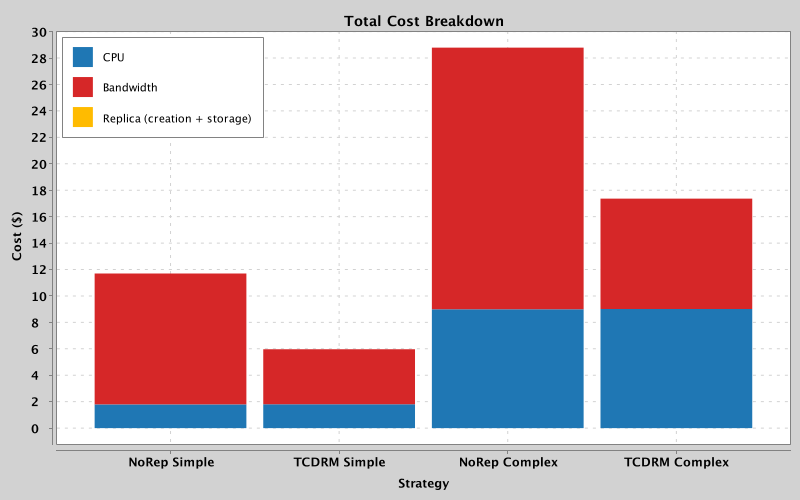
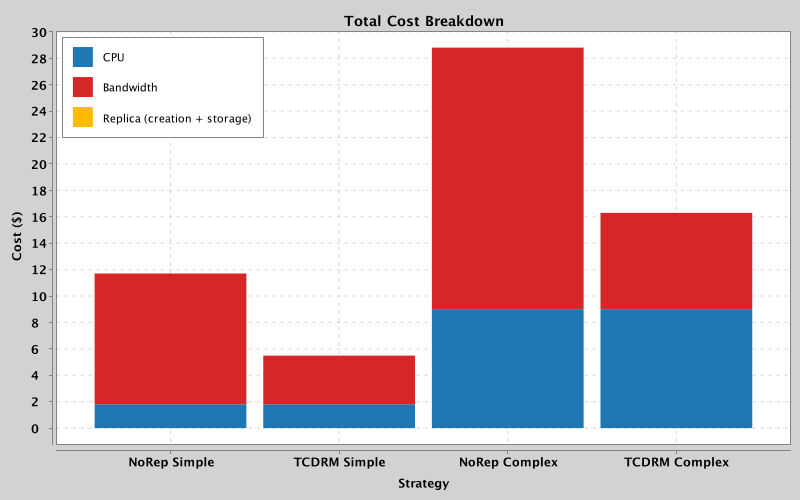
update best model

diff --git a/src/main/java/org/tcdrm/adaptive/simulation/TcdrmSimulation.java b/src/main/java/org/tcdrm/adaptive/simulation/TcdrmSimulation.java
@@ -35,12 +35,7 @@ public class TcdrmSimulation {
     private double currentBudget;
     private int queryCount;
     
-    // Compteurs pour popularité (lecture/écriture)
-    private int readCount;
-    private int writeCount;
-    
-    // EMA (Exponential Moving Average) pour popularité avec décroissance
-    // Basé sur Redis LFU et algorithmes de ranking avec time decay
+    // EMA (Exponential Moving Average) pour popularité - feature d'état pour RL
     private double emaPopularity;
 
     public TcdrmSimulation(long seed, boolean complex) {
@@ -52,8 +47,6 @@ public class TcdrmSimulation {
         this.currentReplicaCount = 0;
         this.currentBudget = TcdrmConstants.INITIAL_BUDGET;
         this.queryCount = 0;
-        this.readCount = 0;
-        this.writeCount = 0;
         this.emaPopularity = 0.0;
         
         // Créer les fragments distribués sur les providers
@@ -99,19 +92,14 @@ public class TcdrmSimulation {
      * Exécute une requête NoRepLc (pas de réplication).
      */
     public QueryResult executeNoRepQuery() {
-        QueryCloudlet query = new QueryCloudlet(queryCount, complex, fragments);
-        query.execute(infrastructure, execProvider, execRegion, rnd);
-        
         // Simuler lecture/écriture (workload OLAP: 90% lectures, 10% écritures)
         boolean isRead = rnd.nextDouble() < TcdrmConstants.READ_WRITE_RATIO;
-        if (isRead) {
-            readCount++;
-        } else {
-            writeCount++;
-        }
         
         // Mettre à jour la popularité EMA
         updateEmaPopularity(isRead);
+        
+        QueryCloudlet query = new QueryCloudlet(queryCount, complex, fragments);
+        query.execute(infrastructure, execProvider, execRegion, rnd);
         
         QueryResult result = new QueryResult(
             queryCount,
@@ -130,25 +118,21 @@ public class TcdrmSimulation {
     }
 
     /**
-     * Exécute une requête TCDRM avec stratégie de réplication à seuil fixe.
+     * Exécute une requête TCDRM avec stratégie de réplication à seuil fixe (baseline).
      */
     public QueryResult executeTcdrmQuery() {
         int maxReplicas = TcdrmConstants.maxReplicasForQueryType(complex);
         double creationCost = 0.0;
         
-        // Simuler lecture/écriture (workload OLAP: 90% lectures, 10% écritures)
+        // Simuler lecture/écriture
         boolean isRead = rnd.nextDouble() < TcdrmConstants.READ_WRITE_RATIO;
-        if (isRead) {
-            readCount++;
-        } else {
-            writeCount++;
-        }
         
         // Mettre à jour la popularité EMA
         updateEmaPopularity(isRead);
         
-        // Créer un réplica si on dépasse P_SLA et qu'on n'a pas atteint le max
-        if (queryCount >= TcdrmConstants.POPULARITY_THRESHOLD && currentReplicaCount < maxReplicas) {
+        // TCDRM static: réplication basée sur seuil fixe P_SLA
+        // On attend que la popularité dépasse le seuil
+        if (emaPopularity >= TcdrmConstants.EMA_REPLICATION_THRESHOLD && currentReplicaCount < maxReplicas) {
             creationCost = createNextReplica();
         }
         
@@ -180,6 +164,7 @@ public class TcdrmSimulation {
 
     /**
      * Exécute une requête avec une action RL spécifique.
+     * L'agent RL apprend via la reward function quand répliquer.
      * 
      * @param action 0=NOOP, 1=REPLICATE, 2=DELETE
      * @return résultat de la requête
@@ -188,13 +173,8 @@ public class TcdrmSimulation {
         int maxReplicas = TcdrmConstants.maxReplicasForQueryType(complex);
         double creationCost = 0.0;
         
-        // Simuler lecture/écriture (workload OLAP: 90% lectures, 10% écritures)
+        // Simuler lecture/écriture
         boolean isRead = rnd.nextDouble() < TcdrmConstants.READ_WRITE_RATIO;
-        if (isRead) {
-            readCount++;
-        } else {
-            writeCount++;
-        }
         
         // Mettre à jour la popularité EMA
         updateEmaPopularity(isRead);
@@ -263,23 +243,11 @@ public class TcdrmSimulation {
 
     /**
      * Met à jour la popularité EMA après chaque accès.
-     * 
-     * Formule EMA: popularity(t) = α × access_score + (1-α) × popularity(t-1)
-     * 
-     * Cette approche est basée sur:
-     * - Redis LFU: compteur probabiliste avec décroissance temporelle
-     * - Algorithmes de ranking (Reddit, HackerNews): score avec half-life
-     * 
-     * Avantages:
-     * - Décroissance naturelle: la popularité diminue si les accès cessent
-     * - Lissage: évite les pics soudains qui déclenchent une réplication prématurée
-     * - Réaliste: modélise le comportement "hot/cold" des données
-     * 
-     * @param isRead true si l'accès est une lecture, false si écriture
+     * Cette popularité est une FEATURE D'ÉTAT pour les agents RL.
+     * Les agents apprennent via la reward function quand répliquer.
      */
     private void updateEmaPopularity(boolean isRead) {
         // Score d'accès: lectures favorisées (réplication bénéfique)
-        // Écritures pénalisées (coût de synchronisation)
         double accessScore;
         if (isRead) {
             accessScore = TcdrmConstants.ACCESS_SCORE_BASE * TcdrmConstants.READ_BONUS_FACTOR;
@@ -294,7 +262,7 @@ public class TcdrmSimulation {
         double alpha = TcdrmConstants.EMA_ALPHA;
         emaPopularity = alpha * normalizedScore + (1.0 - alpha) * emaPopularity;
         
-        // Appliquer une légère décroissance supplémentaire pour éviter la saturation
+        // Décroissance pour éviter la saturation
         emaPopularity *= TcdrmConstants.DECAY_PER_QUERY;
         
         // Borner entre 0 et 1
@@ -305,22 +273,18 @@ public class TcdrmSimulation {
      * Construit l'état pour les modèles RL.
      * [latency, budget, replicas, normalizedPopularity, cost, tSlaViolation, cSlaViolation, queryProgress]
      * 
-     * La popularité utilise maintenant EMA avec décroissance exponentielle:
-     * - Croît progressivement avec les accès répétés
-     * - Décroît naturellement sans accès
-     * - Favorise les lectures (réplication bénéfique)
-     * - Pénalise les écritures (coût de synchronisation)
+     * La popularité EMA est une FEATURE D'ÉTAT (observation).
+     * L'agent RL APPREND via la reward function quand répliquer.
+     * Pas de seuils fixes - apprentissage adaptatif.
      */
     public double[] buildRLState(double lastLatency, double lastCost) {
         double tSla = complex ? TcdrmConstants.TSLA_COMPLEX_MS : TcdrmConstants.TSLA_SIMPLE_MS;
         double cSla = complex ? TcdrmConstants.CSLA_COMPLEX : TcdrmConstants.CSLA_SIMPLE;
         int maxReplicas = TcdrmConstants.maxReplicasForQueryType(complex);
         
-        // Popularité normalisée par rapport au seuil de réplication
-        // emaPopularity est déjà entre 0 et 1
-        // On normalise par rapport au seuil: 1.0 = seuil atteint
+        // Popularité EMA (0-1) - feature d'observation pour l'agent
         double normalizedPopularity = emaPopularity / TcdrmConstants.EMA_REPLICATION_THRESHOLD;
-        normalizedPopularity = Math.min(1.5, normalizedPopularity); // Cap à 1.5 pour permettre "très populaire"
+        normalizedPopularity = Math.min(1.5, normalizedPopularity);
         
         return new double[] {
             lastLatency / tSla,                                    // Normalized latency
@@ -347,8 +311,6 @@ public class TcdrmSimulation {
         this.currentReplicaCount = 0;
         this.currentBudget = TcdrmConstants.INITIAL_BUDGET;
         this.queryCount = 0;
-        this.readCount = 0;
-        this.writeCount = 0;
         this.emaPopularity = 0.0;
         fragments.forEach(DataFragment::deleteReplica);
     }

diff --git a/python_rl/bridge/rl_bridge.py b/python_rl/bridge/rl_bridge.py
@@ -41,8 +41,8 @@ class PythonRLBridge:
             n_actions=3,
             learning_rate=0.15,
             discount_factor=0.95,
-            epsilon_start=0.3,      # Exploration modérée pour online learning
-            epsilon_min=0.05,
+            epsilon_start=0.075,     # Exploration réduite pour stabilisation rapide
+            epsilon_min=0.01,
             epsilon_decay=0.997,
             use_double_q=True,
             adaptive_lr=True
@@ -51,7 +51,7 @@ class PythonRLBridge:
         if qlearning_model_path and os.path.exists(qlearning_model_path):
             print(f"📦 Loading Q-Learning model: {qlearning_model_path}")
             self.qlearning_agent.load(qlearning_model_path)
-            self.qlearning_agent.epsilon = 0.20  # Online learning: exploration maintenue
+            self.qlearning_agent.epsilon = 0.075  # Online learning: exploration réduite
             stats = self.qlearning_agent.get_stats()
             print(f"✅ Q-Learning loaded (states explored: {stats['states_explored']}/243)")
         else:
@@ -63,15 +63,15 @@ class PythonRLBridge:
             action_dim=3,
             learning_rate=0.001, 
             discount_factor=0.99,
-            epsilon=0.15,  # Exploration modérée, distincte du Q-Learning
-            epsilon_min=0.02,
+            epsilon=0.075,  # Exploration réduite pour stabilisation rapide
+            epsilon_min=0.01,
             epsilon_decay_lambda=0.003
         )
         
         if dqn_model_path and os.path.exists(dqn_model_path):
             print(f"📦 Loading DQN model: {dqn_model_path}")
             self.dqn_agent.load(dqn_model_path)
-            self.dqn_agent.epsilon = 0.10  # Online learning: exploration modérée
+            self.dqn_agent.epsilon = 0.075  # Online learning: exploration réduite
             print("✅ DQN loaded")
         else:
             print("⚠  DQN: no trained model, using fresh agent")
@@ -88,7 +88,7 @@ class PythonRLBridge:
         
         # Anti-thrashing
         self._thrashing_window = 10
-        self._warmup_queries = 20
+        self._warmup_queries = 50  # Warmup pour observer les patterns initiaux
         
         # Compteurs d'épisodes
         self._ql_episode = 0
@@ -384,15 +384,18 @@ class PythonRLBridge:
     def _physical_mask(self, state: dict) -> np.ndarray:
         """
         Masque d'actions basé uniquement sur les contraintes physiques.
-        L'agent RL décide librement parmi les actions physiquement possibles.
+        L'agent RL apprend via la reward function quand répliquer.
         """
         mask = np.ones(3, dtype=np.float32)
+        
         # DELETE impossible sans réplica
         if float(state['replicas_normalized']) <= 0.0:
             mask[2] = 0.0
+        
         # REPLICATE impossible si déjà au max (normalisé = 1.0)
         if float(state['replicas_normalized']) >= 1.0:
             mask[1] = 0.0
+        
         return mask
 
     def _physical_constraints(self, state: dict):

diff --git a/src/main/java/org/tcdrm/adaptive/data/WorkloadGenerator.java b/src/main/java/org/tcdrm/adaptive/data/WorkloadGenerator.java
@@ -60,15 +60,16 @@ public class WorkloadGenerator {
         List<String> dcNames = new ArrayList<>(infrastructure.getAllDatacenters().keySet());
         
         // Définir les probabilités d'accès pour chaque relation
+        // Probabilités plus marquées pour une émergence rapide de la popularité
         double[] accessProbabilities = {
-            0.75,  // R1 - très populaire
-            0.70,  // R2 - très populaire
-            0.50,  // R3 - populaire
-            0.45,  // R4 - populaire
-            0.40,  // R5 - populaire
-            0.15,  // R6 - peu populaire
-            0.12,  // R7 - peu populaire
-            0.10,  // R8 - peu populaire
+            0.85,  // R1 - très populaire (85% des requêtes)
+            0.80,  // R2 - très populaire (80% des requêtes)
+            0.55,  // R3 - populaire
+            0.50,  // R4 - populaire
+            0.45,  // R5 - populaire
+            0.20,  // R6 - peu populaire
+            0.15,  // R7 - peu populaire
+            0.12,  // R8 - peu populaire
             0.08,  // R9 - peu populaire
             0.05   // R10 - peu populaire
         };
@@ -130,13 +131,16 @@ public class WorkloadGenerator {
             
             switch (region) {
                 case "US":
-                    probabilities = new double[]{0.80, 0.75, 0.70, 0.30, 0.25, 0.15, 0.10, 0.08, 0.05, 0.03};
+                    // US: R1, R2, R3 très populaires
+                    probabilities = new double[]{0.90, 0.85, 0.75, 0.35, 0.30, 0.18, 0.12, 0.10, 0.06, 0.04};
                     break;
                 case "EU":
-                    probabilities = new double[]{0.40, 0.80, 0.35, 0.75, 0.70, 0.20, 0.15, 0.10, 0.08, 0.05};
+                    // EU: R2, R4, R5 très populaires
+                    probabilities = new double[]{0.45, 0.90, 0.40, 0.85, 0.75, 0.22, 0.18, 0.12, 0.10, 0.06};
                     break;
                 case "AS":
-                    probabilities = new double[]{0.75, 0.30, 0.25, 0.20, 0.15, 0.80, 0.70, 0.40, 0.30, 0.20};
+                    // AS: R1, R6, R7 très populaires
+                    probabilities = new double[]{0.85, 0.35, 0.30, 0.25, 0.18, 0.90, 0.80, 0.45, 0.35, 0.22};
                     break;
             }
             

diff --git a/src/main/java/org/tcdrm/adaptive/cloudsim/QueryCloudlet.java b/src/main/java/org/tcdrm/adaptive/cloudsim/QueryCloudlet.java
@@ -87,14 +87,22 @@ public class QueryCloudlet {
         // Calculer le temps de transfert pour chaque fragment
         for (DataFragment fragment : fragments) {
             String srcProvider, srcRegion;
+            boolean usingReplica = false;
             
-            // Utiliser le réplica s'il est disponible et dans le même provider
-            if (fragment.hasReplica() && fragment.getReplicaProvider().equals(execProvider)) {
+            // Stratégie de sélection: toujours préférer le réplica s'il existe
+            // 1. Réplica dans la même région (meilleur cas)
+            // 2. Réplica dans le même provider (bon cas)
+            // 3. Réplica dans un autre provider (acceptable)
+            // 4. Primaire (dernier recours)
+            if (fragment.hasReplica()) {
+                // Toujours utiliser le réplica s'il existe
                 srcProvider = fragment.getReplicaProvider();
                 srcRegion = fragment.getReplicaRegion();
+                usingReplica = true;
             } else {
                 srcProvider = fragment.getPrimaryProvider();
                 srcRegion = fragment.getPrimaryRegion();
+                usingReplica = false;
             }
             
             // Données effectives transférées (sélectivité)
@@ -105,8 +113,9 @@ public class QueryCloudlet {
                 effectiveDataGb, srcProvider, srcRegion, execProvider, execRegion, rnd);
             
             // Appliquer le warm-up efficiency pour les réplicas
-            if (fragment.hasReplica() && srcProvider.equals(fragment.getReplicaProvider())) {
+            if (usingReplica) {
                 double warmup = fragment.getWarmupEfficiency();
+                // Bonus de performance pour les réplicas (jusqu'à 30% plus rapide)
                 transferMs = transferMs * (1.0 - 0.3 * warmup);
             }
             

diff --git a/src/main/java/org/tcdrm/adaptive/core/TcdrmConstants.java b/src/main/java/org/tcdrm/adaptive/core/TcdrmConstants.java
@@ -126,7 +126,7 @@ public final class TcdrmConstants {
     // où α = 1 - e^(-1/half_life) pour une demi-vie de half_life requêtes
     
     /** Half-life en nombre de requêtes (après N requêtes, la popularité décroît de 50%) */
-    public static final int POPULARITY_HALF_LIFE = 30;
+    public static final int POPULARITY_HALF_LIFE = 150; // Plus grand = EMA monte plus lentement (avant: 30)
     /** Facteur de lissage EMA calculé à partir de half-life: α = 1 - e^(-ln(2)/half_life) */
     public static final double EMA_ALPHA = 1.0 - Math.exp(-Math.log(2) / POPULARITY_HALF_LIFE);
     /** Score d'accès de base par requête (avant normalisation) */
@@ -138,7 +138,7 @@ public final class TcdrmConstants {
     /** Seuil de popularité EMA pour déclencher la première réplication (0.0-1.0) */
     public static final double EMA_REPLICATION_THRESHOLD = 0.4;
     /** Facteur de décroissance par requête sans accès (simule le refroidissement) */
-    public static final double DECAY_PER_QUERY = 0.998;
+    public static final double DECAY_PER_QUERY = 0.9995; // Plus proche de 1 = décroît plus lentement (avant: 0.998)
 
     // ==================================================================
     // Warm-up / Gradual Replica Effectiveness

diff --git a/src/main/java/org/tcdrm/adaptive/benchmark/BenchmarkRunner.java b/src/main/java/org/tcdrm/adaptive/benchmark/BenchmarkRunner.java
@@ -151,11 +151,12 @@ public class BenchmarkRunner {
         // 4) Coût de complexité: trop de réplicas
         reward -= Math.max(0, replicas - 1) * 0.25;
 
-        // 5) Régularisation des actions
+        // 5) Régularisation des actions (pénalité augmentée pour réplication)
         if (action == 1) {
-            reward -= 0.2; // REPLICATE a un coût
+            // Pénalité plus forte pour la réplication pour éviter la réplication précoce
+            reward -= 0.5; // REPLICATE a un coût (avant: 0.2)
             if (latency > tSla) {
-                reward += 0.6; // bonus si réplication quand SLA violé
+                reward += 0.8; // bonus plus fort si réplication justifiée par SLA violé (avant: 0.6)
             }
         } else if (action == 2) {
             reward -= 0.1; // DELETE: léger coût de risque

diff --git a/pop.md b/pop.md
@@ -1,0 +1,5 @@
+1. archi
+
+"Pour éviter le coût prohibitif de l'exploration initiale (Cold Start Problem) inhérent à l'apprentissage par renforcement, notre framework TCDRM-ADAPTIVE adopte une approche en deux phases. Premièrement, un pré-entraînement hors ligne sur simulateur permet aux modèles (Q-Learning et DQN) d'assimiler les dynamiques de coût et de latence du multi-cloud. Deuxièmement, les modèles sont déployés avec un mécanisme d'apprentissage en ligne (Online Learning) actif. Cela leur permet d'affiner continuellement leur politique de décision en s'adaptant dynamiquement aux fluctuations de popularité des données et aux variations de charge, garantissant ainsi le respect des SLAs et du budget du locataire tout au long du cycle de vie de l'application."
+
+
